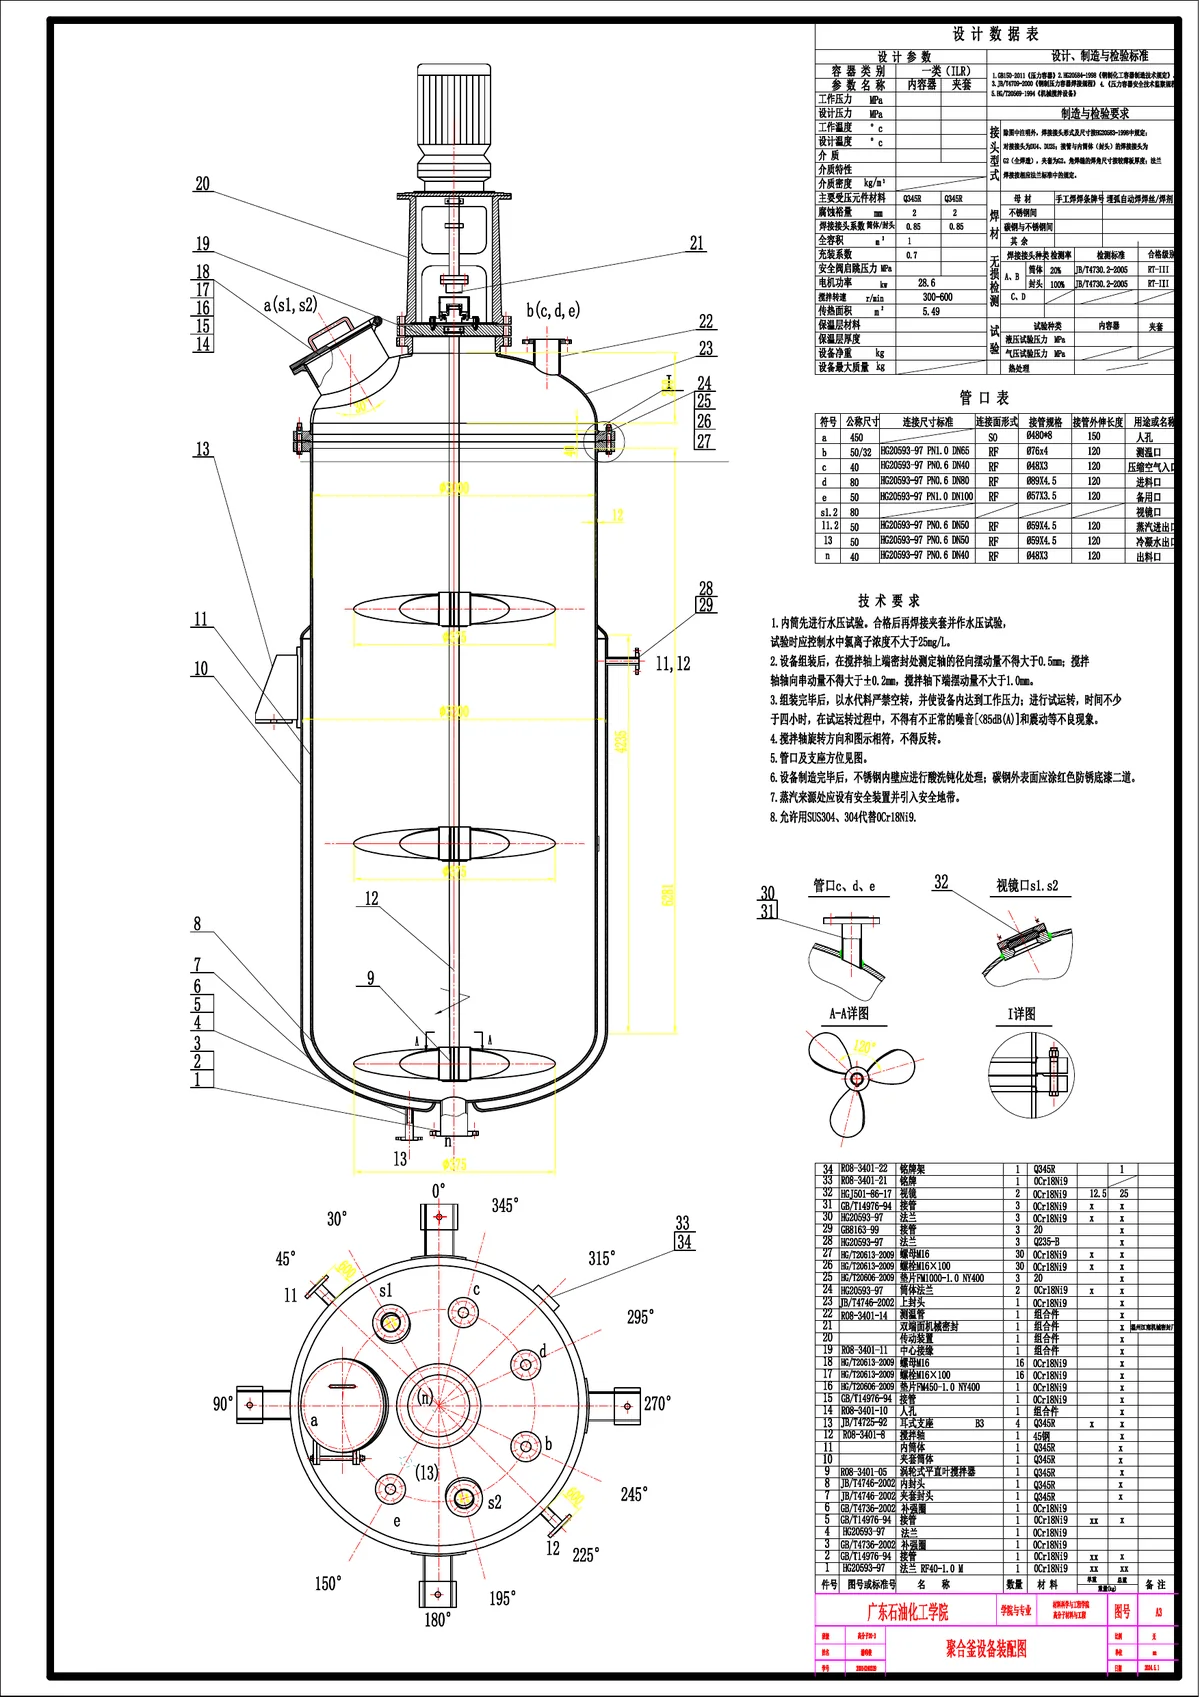
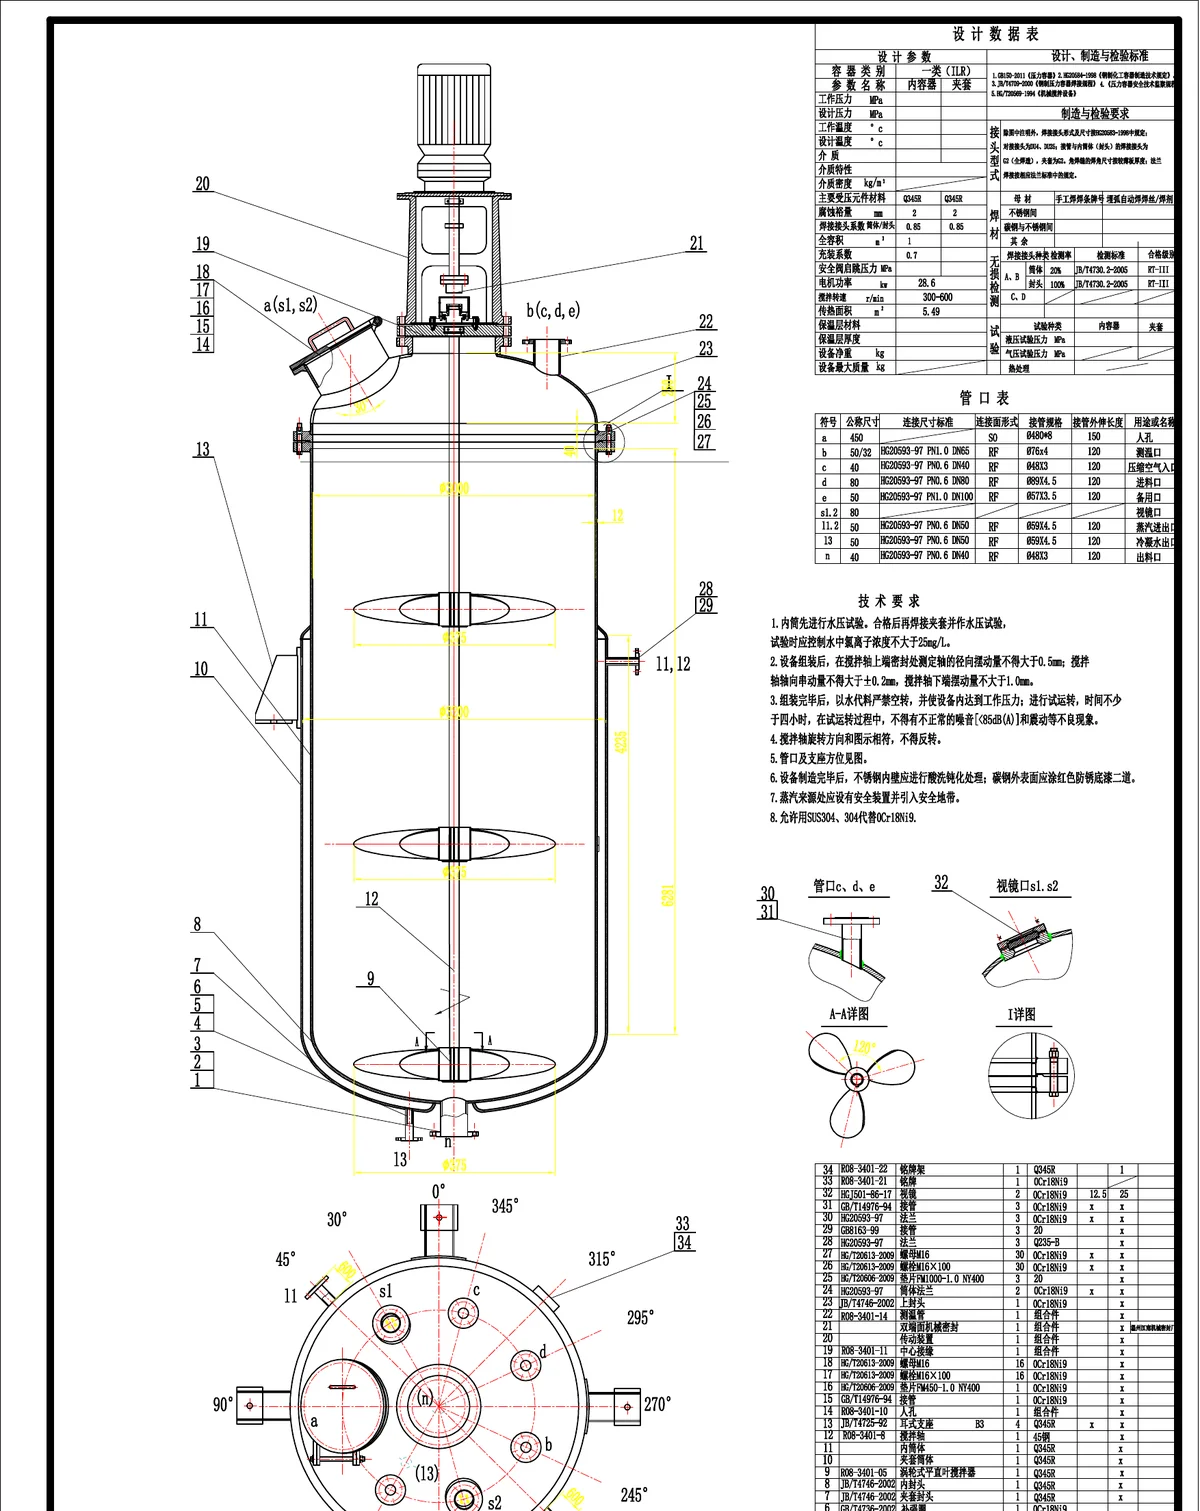
Redact CAD title-block identifiers

diff --git a/styles.css b/styles.css
@@ -138,7 +138,7 @@ h1 { margin-bottom: 1.5rem; max-width: 800px; font-family: Georgia, "Noto Serif 
 .cad-gallery figure { margin: 0; background: white; }
 .cad-gallery figcaption { padding: .6rem .75rem .75rem; color: var(--muted); background: white; font-size: .8rem; }
 .cad-wide { grid-column: 1 / -1; }
-.cad-wide .image-button img { width: 100%; aspect-ratio: 1.42/1; object-fit: contain; background: white; }
+.cad-wide .image-button img { width: 100%; aspect-ratio: 1.9/1; object-fit: contain; background: white; }
 .cad-tall { grid-column: 1 / -1; width: min(68%, 720px); justify-self: center; }
 .cad-tall .image-button img { width: 100%; max-height: 760px; object-fit: contain; background: white; }
 .coursework-heading { max-width: 720px; margin-bottom: 2rem; }
